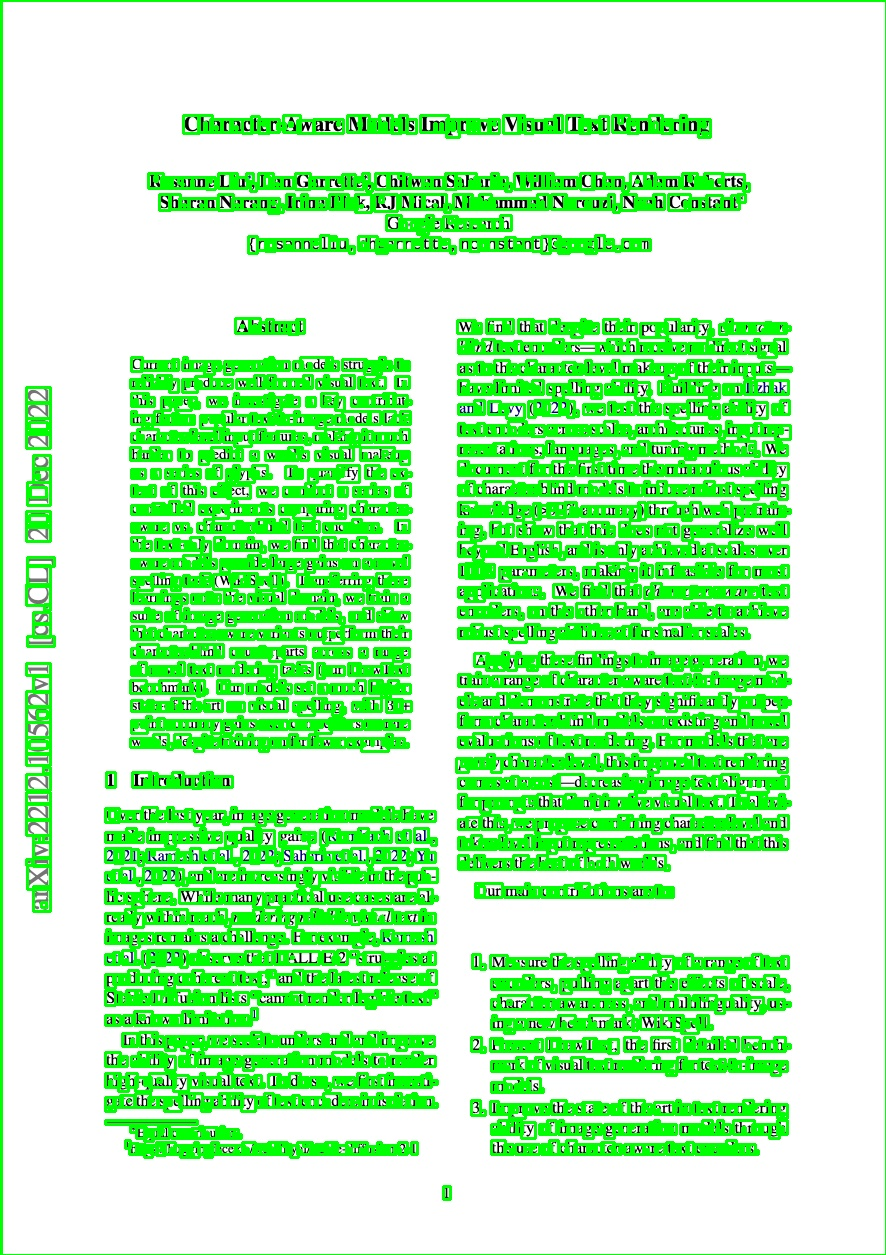
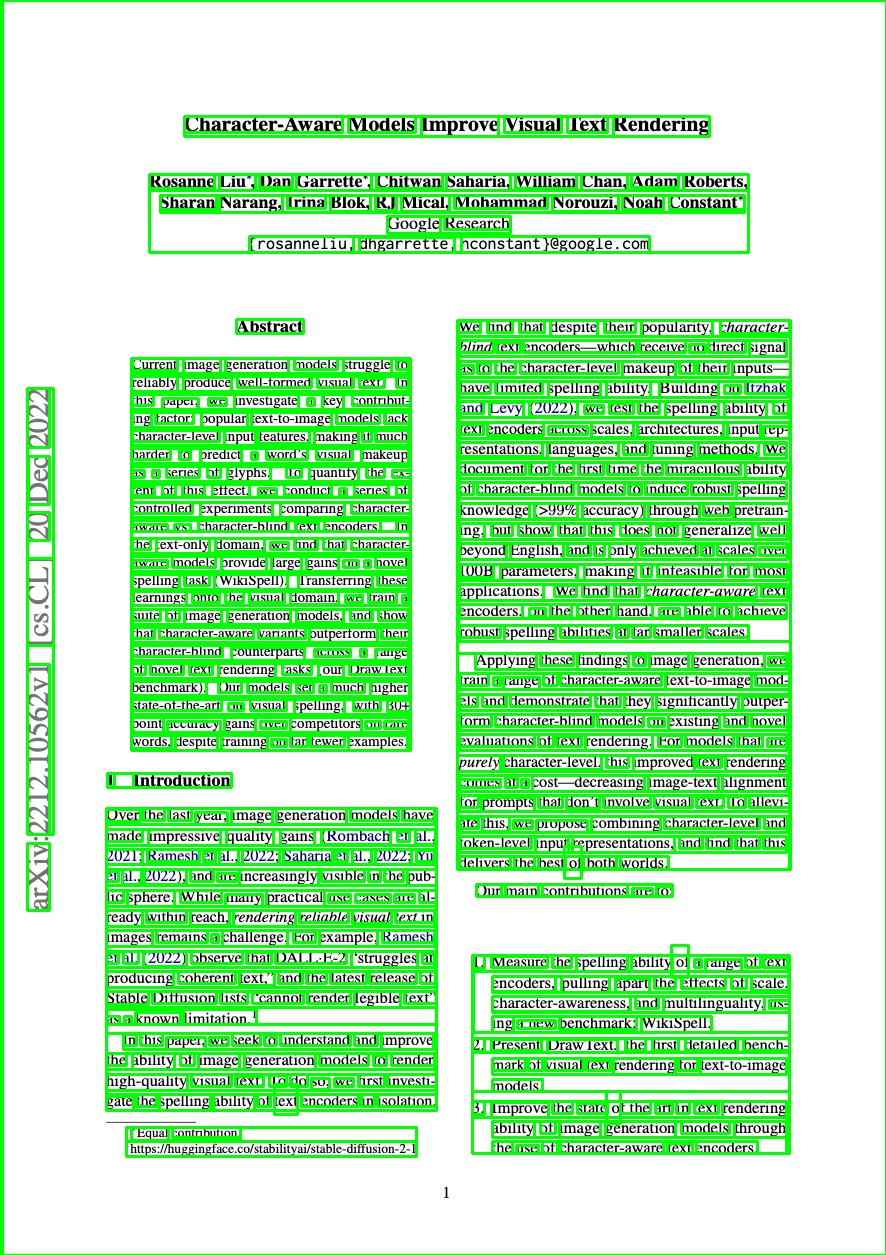
boxes around each word

diff --git a/script.py b/script.py
@@ -1,4 +1,6 @@
 import cv2
+import time
+import pytesseract
 
 # Load the image
 image = cv2.imread('image.png')
@@ -9,12 +11,30 @@ gray = cv2.cvtColor(image, cv2.COLOR_BGR2GRAY)
 # Apply adaptive thresholding to the image
 thresh = cv2.adaptiveThreshold(gray, 255, cv2.ADAPTIVE_THRESH_MEAN_C, cv2.THRESH_BINARY, 11, 4)
 
-# Find contours in the thresholded image
-contours, hierarchy = cv2.findContours(thresh, cv2.RETR_TREE, cv2.CHAIN_APPROX_SIMPLE)
+# Use Tesseract OCR to extract data from the image
+data = pytesseract.image_to_data(thresh)
 
-# Iterate through the contours and draw bounding boxes around the paragraphs
-for contour in contours:
-    x, y, w, h = cv2.boundingRect(contour)
+# level	page_num	block_num	par_num	line_num	word_num	left	top	width	height	conf	text
+headers = ['level', 'page_num', 'block_num', 'par_num', 'line_num', 'word_num', 'left', 'top', 'width', 'height', 'conf', 'text']
+
+for line in data.split('\n'):
+    # skip the first line
+    if line == data.split('\n')[0]:
+        continue
+
+    d = line.split()
+
+    # if d is empty, skip it
+    if not d:
+        continue
+
+    # get the bounding box coordinates and dimensions
+    x, y, w, h = d[headers.index('left')], d[headers.index('top')], d[headers.index('width')], d[headers.index('height')]
+
+    # make them all integers
+    x, y, w, h = int(x), int(y), int(w), int(h)
+
+    # Draw the bounding box on the image
     cv2.rectangle(image, (x, y), (x + w, y + h), (0, 255, 0), 2)
 
 # Save the image with bounding boxes
@@ -24,3 +44,4 @@ while True:
     # Run the code to output bounding boxes around paragraphs or sections in the image
     # ...
     print("hello world")
+    time.sleep(3)

diff --git a/boxes_random_sentences.py b/boxes_random_sentences.py
@@ -1,0 +1,33 @@
+import cv2
+
+# Load the image
+image = cv2.imread('image.png')
+
+# Pre-process the image
+# You can try different pre-processing techniques and see which one works best for your image
+image = cv2.GaussianBlur(image, (5,5), 0)
+
+# Convert the image to grayscale
+gray = cv2.cvtColor(image, cv2.COLOR_BGR2GRAY)
+
+# Apply adaptive thresholding to the image
+# Increase the blockSize parameter to smooth out the image and reduce noise
+thresh = cv2.adaptiveThreshold(gray, 255, cv2.ADAPTIVE_THRESH_MEAN_C, cv2.THRESH_BINARY, 15, 4)
+
+# Find contours in the thresholded image
+contours, hierarchy = cv2.findContours(thresh, cv2.RETR_TREE, cv2.CHAIN_APPROX_SIMPLE)
+
+# Iterate through the contours and draw bounding boxes around the paragraphs
+# Use the contourArea function to filter out contours that are too small or too large
+for contour in contours:
+    if cv2.contourArea(contour) > 500 and cv2.contourArea(contour) < 10000:
+        x, y, w, h = cv2.boundingRect(contour)
+        cv2.rectangle(image, (x, y), (x + w, y + h), (0, 255, 0), 2)
+
+# Save the image with bounding boxes
+cv2.imwrite('image_with_boxes.jpg', image)
+
+while True:
+    # Run the code to output bounding boxes around paragraphs or sections in the image
+    # ...
+    print("hello world")

diff --git a/boxes_random_chars.py b/boxes_random_chars.py
@@ -1,0 +1,29 @@
+import cv2
+import time
+
+# Load the image
+image = cv2.imread('image.png')
+
+# Convert the image to grayscale
+gray = cv2.cvtColor(image, cv2.COLOR_BGR2GRAY)
+
+# Apply adaptive thresholding to the image
+thresh = cv2.adaptiveThreshold(gray, 255, cv2.ADAPTIVE_THRESH_MEAN_C, cv2.THRESH_BINARY, 11, 4)
+
+# Find contours in the thresholded image
+contours, hierarchy = cv2.findContours(thresh, cv2.RETR_TREE, cv2.CHAIN_APPROX_SIMPLE)
+
+# Iterate through the contours and draw bounding boxes around each word
+for contour in contours:
+    x, y, w, h = cv2.boundingRect(contour)
+    if w > 15 and h > 15:  # Filter out small contours
+        cv2.rectangle(image, (x, y), (x + w, y + h), (0, 255, 0), 2)
+
+# Save the image with bounding boxes
+cv2.imwrite('image_with_boxes.jpg', image)
+
+while True:
+    # Run the code to output bounding boxes around paragraphs or sections in the image
+    # ...
+    print("hello world")
+    time.sleep(3)

diff --git a/README.md b/README.md
@@ -2,8 +2,11 @@ Test using OpenCV to group together texts into paragraphs from research papers
 
 # Running
 
-```
+```bash
 docker build -t bounding-boxes .
 docker run -it bounding-boxes
-docker cp eb286b8089dc:/app/image_with_boxes.jpg .
+docker ps
+# plug the above id into below
+# docker cp <id>:/app/image_with_boxes.jpg .
+docker cp 10b2438d4b4f:/app/image_with_boxes.jpg .
 ```
